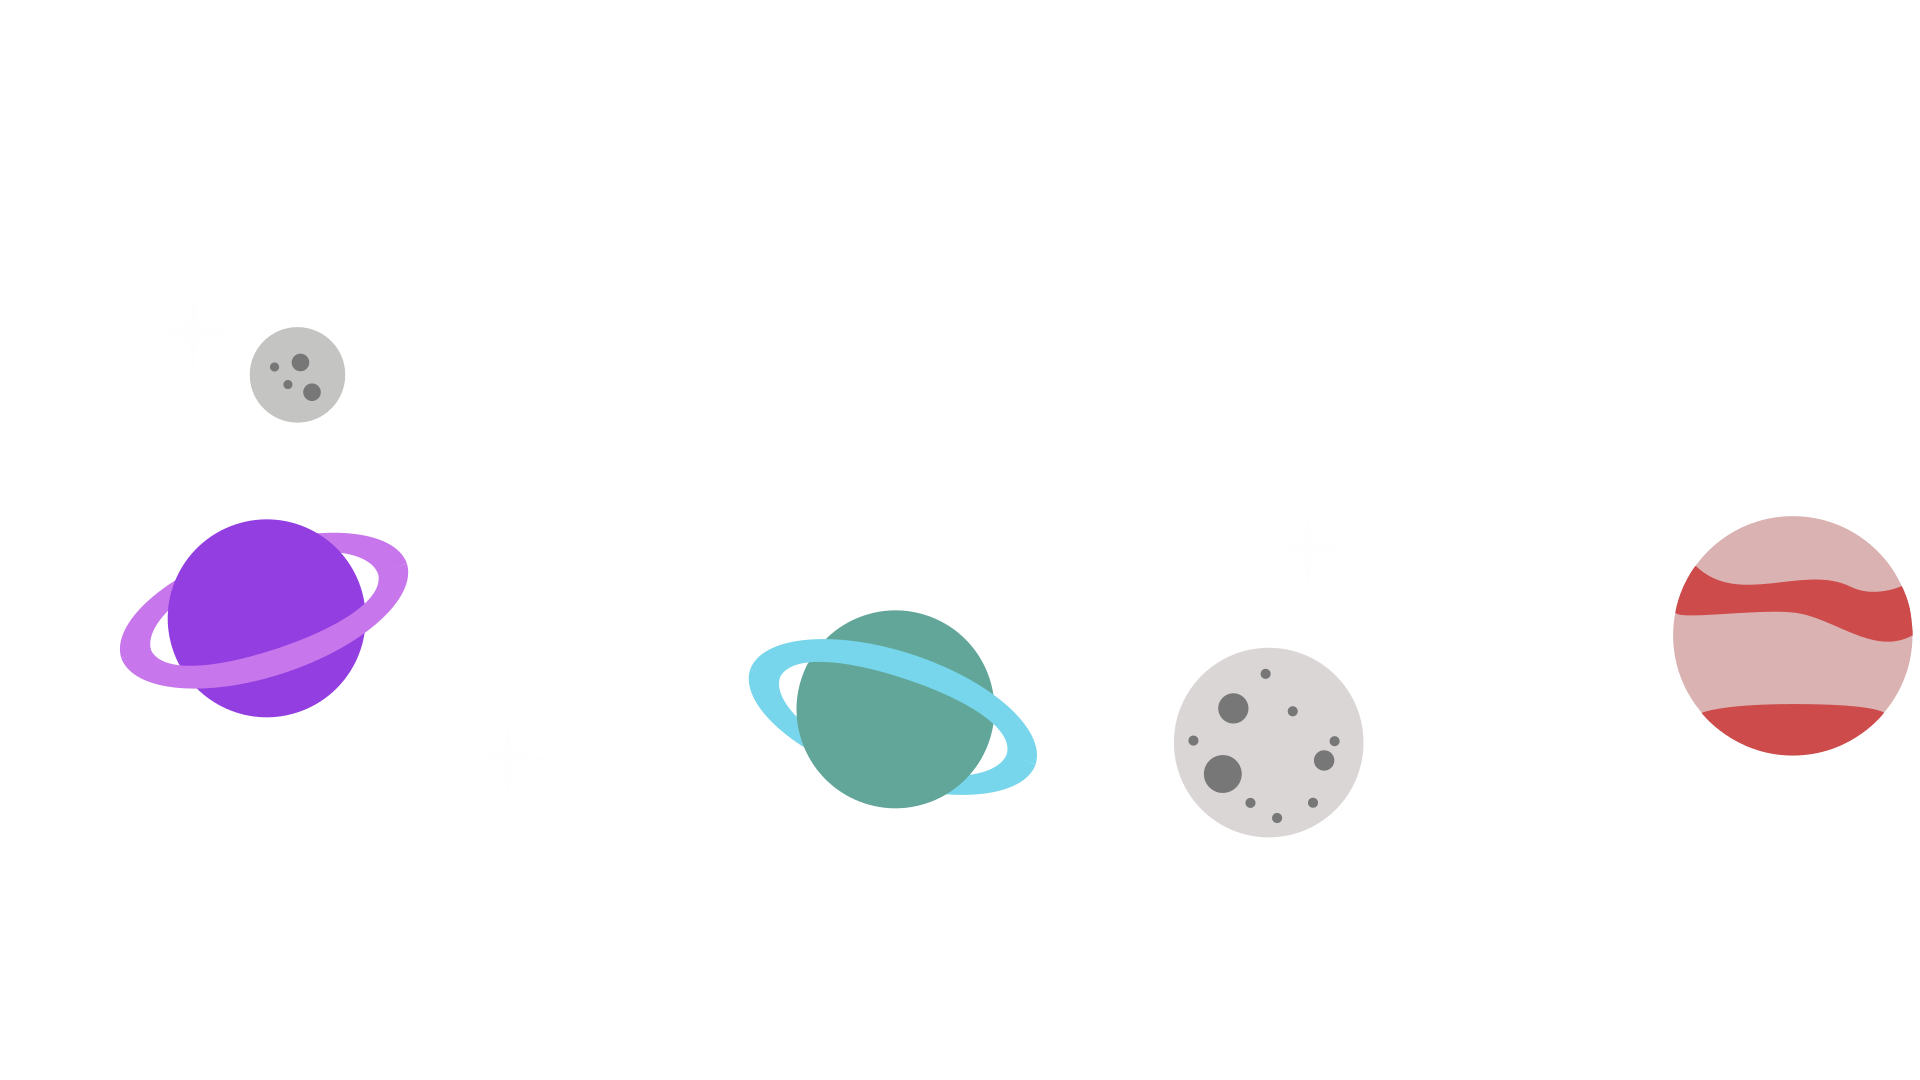
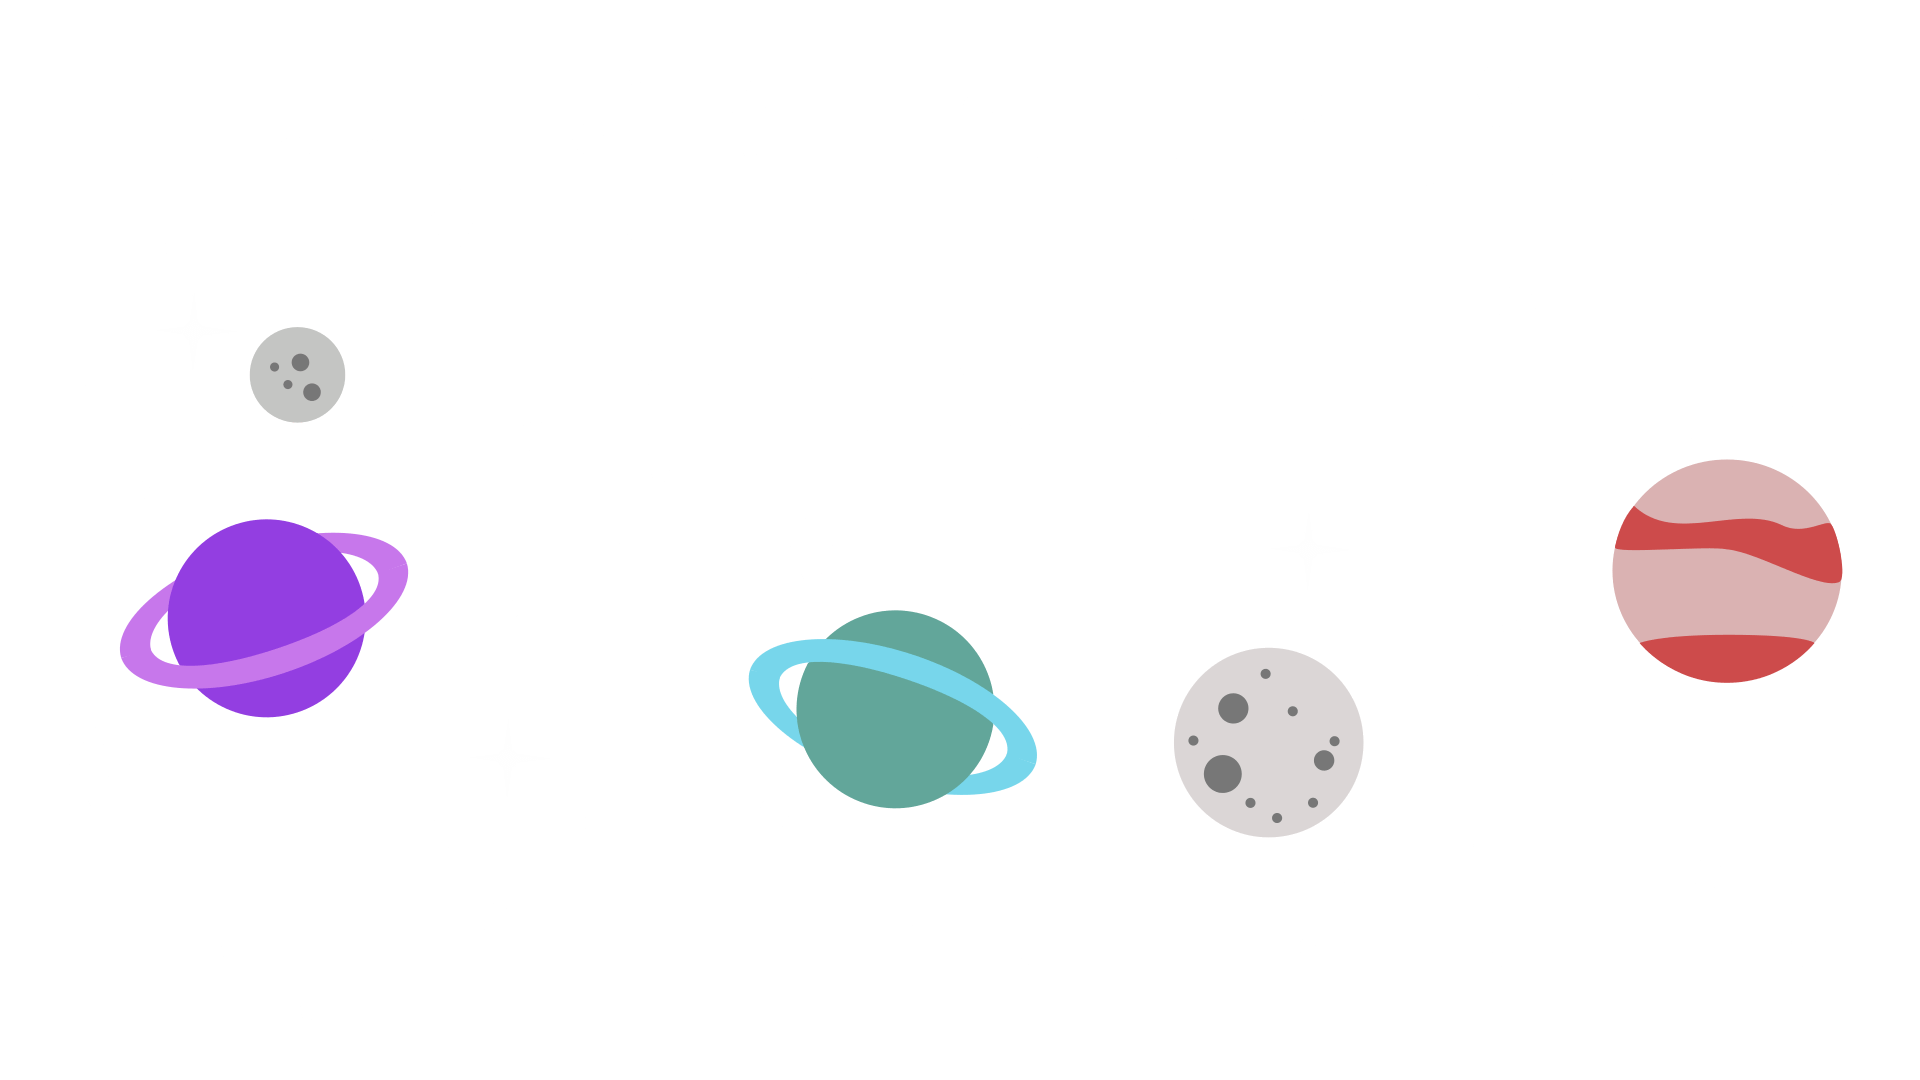
Update space background

Changed region(s): [[0.8125, 0.4278, 1.0, 0.7028]]

diff --git a/css/main.css b/css/main.css
@@ -48,7 +48,7 @@ img[src=""] {
 }
 
 .background-space {
-  background: url("../img/background/space.webp") repeat-x 50vh/190vh;
+  background: url("../img/background/space.webp") repeat-x 50vh/140vh;
   background-color: #37425b;
 }
 
